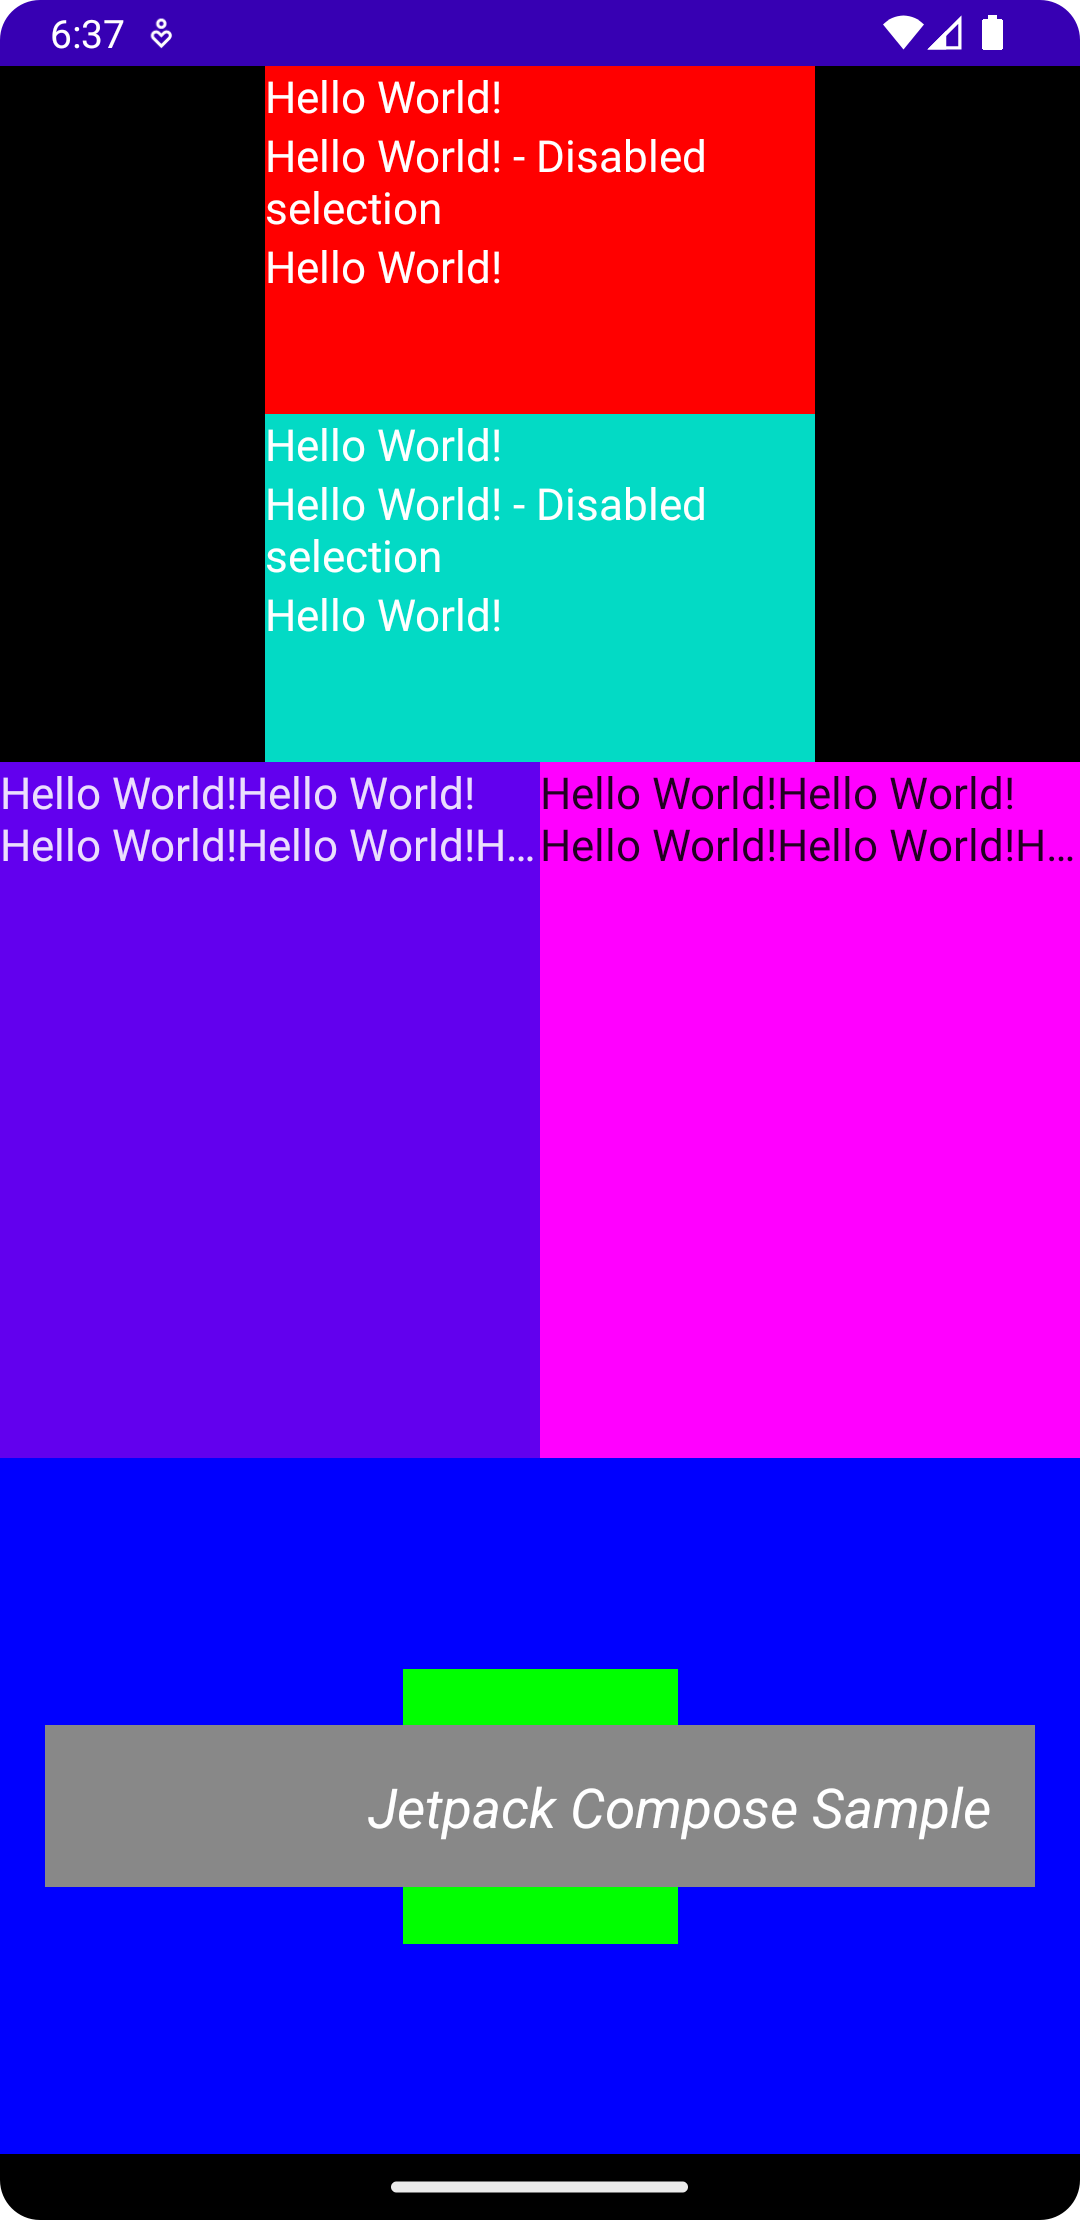
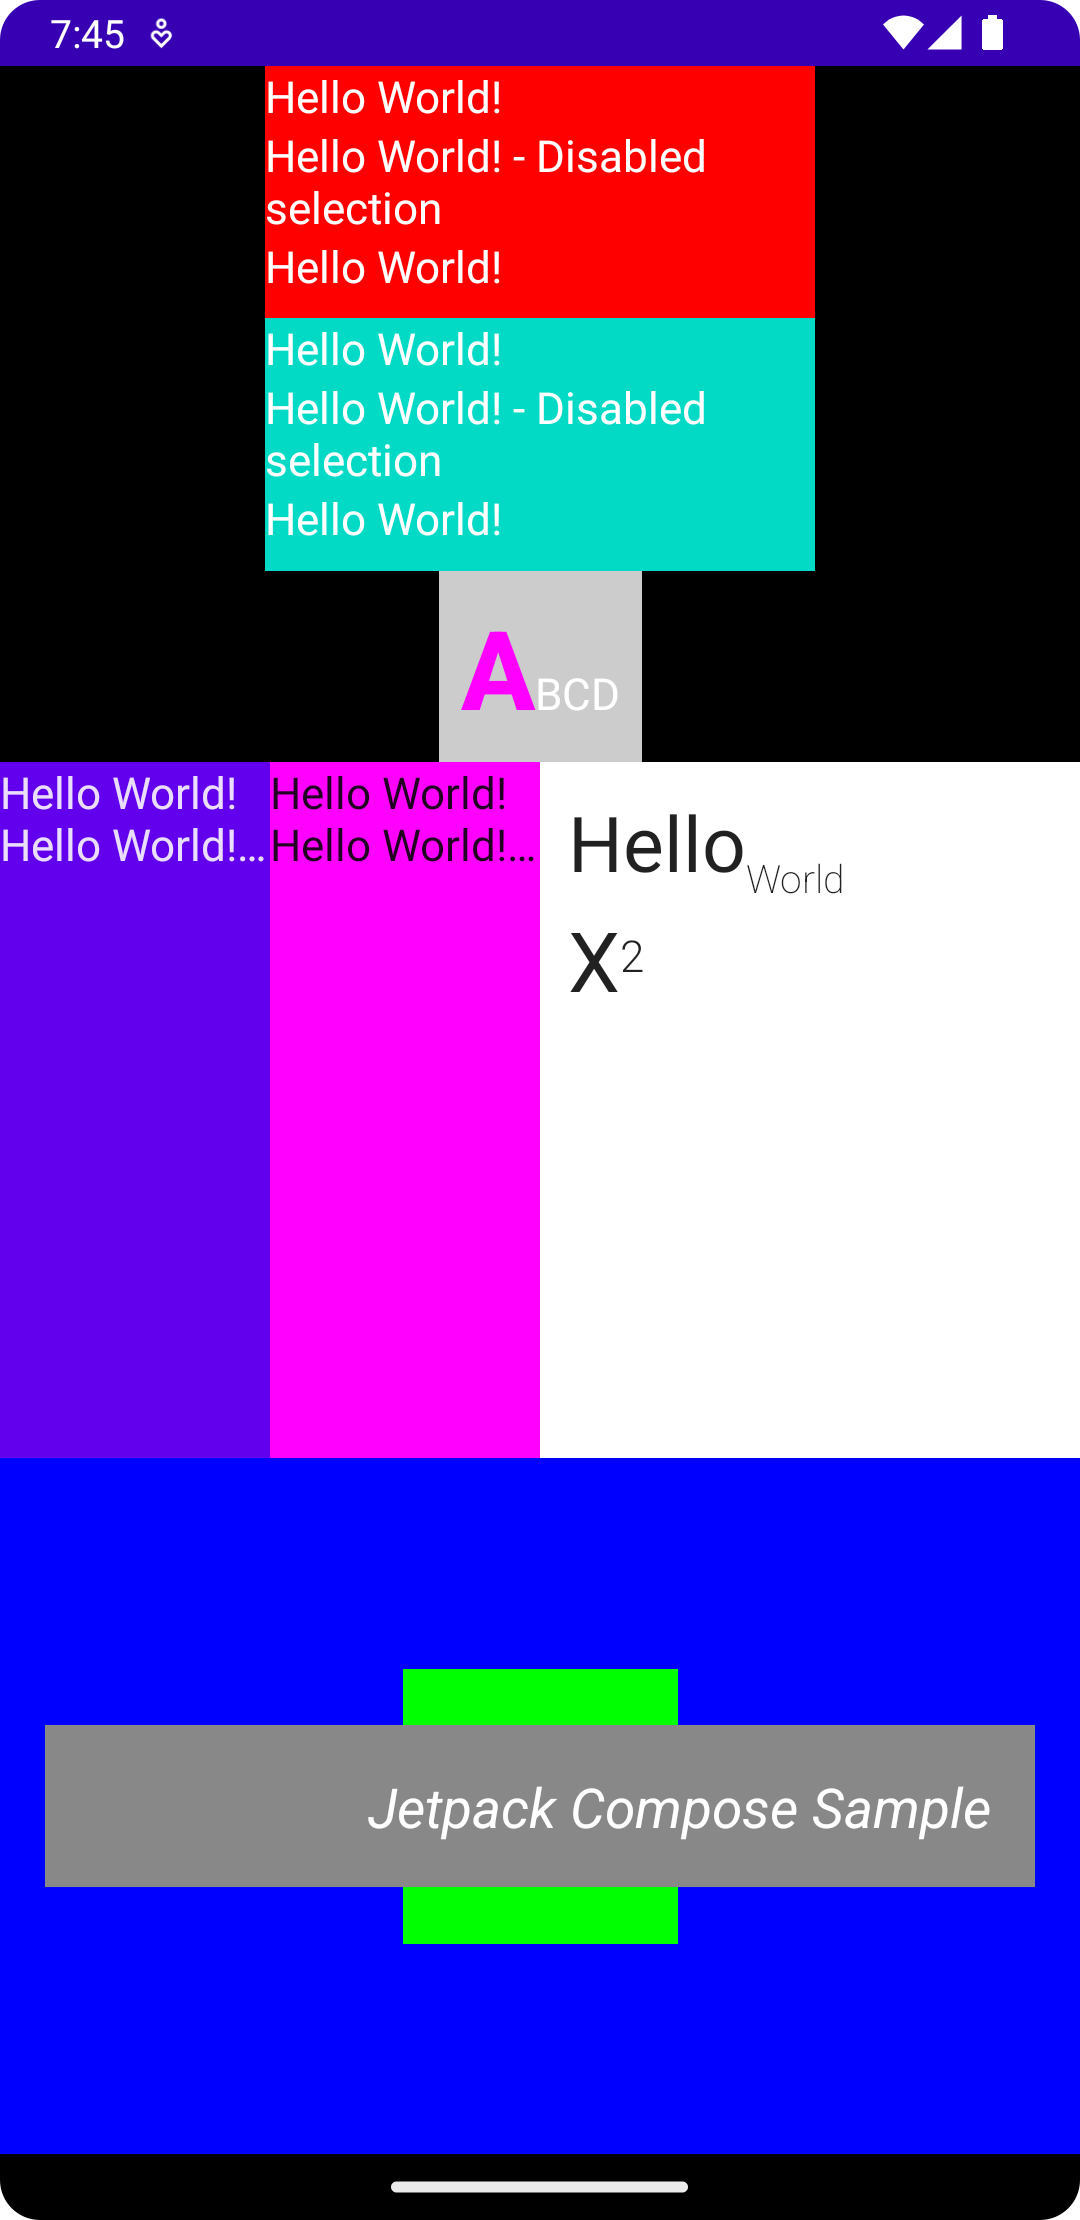
BaselineShift - Superscript and Subscript

diff --git a/app/src/main/java/com/example/jetpackcomposesample/MainActivity.kt b/app/src/main/java/com/example/jetpackcomposesample/MainActivity.kt
@@ -20,10 +20,12 @@ import androidx.compose.ui.text.SpanStyle
 import androidx.compose.ui.text.buildAnnotatedString
 import androidx.compose.ui.text.font.FontStyle
 import androidx.compose.ui.text.font.FontWeight
+import androidx.compose.ui.text.style.BaselineShift
 import androidx.compose.ui.text.style.TextAlign
 import androidx.compose.ui.text.style.TextOverflow
 import androidx.compose.ui.text.withStyle
 import androidx.compose.ui.tooling.preview.Preview
+import androidx.compose.ui.unit.TextUnit
 import androidx.compose.ui.unit.dp
 import androidx.compose.ui.unit.sp
 import com.example.jetpackcomposesample.ui.theme.JetpackComposeSampleTheme
@@ -46,6 +48,7 @@ class MainActivity : ComponentActivity() {
                     ) {
                         CustomItem1(weight = 1f, color = Color.Red)
                         CustomItem1(weight = 1f, color = MaterialTheme.colors.secondary)
+                        CustomText2()
                     }
 
                     Row(
@@ -57,6 +60,7 @@ class MainActivity : ComponentActivity() {
                     ) {
                         CustomItem2(weight = 1f)
                         CustomItem2(weight = 1f, color = Color.Magenta)
+                        CustomItem5(weight = 2f, color = Color.White)
                     }
 
                     Box(
@@ -72,27 +76,12 @@ class MainActivity : ComponentActivity() {
                                 .height(100.dp)
                                 .background(Color.Green)
                         )
-                        Text(
-                            modifier = Modifier
-                                .width(360.dp)
-                                .background(Color.Gray)
-                                .padding(16.dp),
-                            text = stringResource(id = R.string.app_name),
-                            fontStyle = FontStyle.Italic,
-                            fontSize = 20.sp,
-                            textAlign = TextAlign.End,
-                            color = Color.White
-                        )
+                        CustomText1()
                     }
                 }
             }
         }
     }
-}
-
-@Composable
-fun Greeting(name: String) {
-    Text(text = "Hello $name!")
 }
 
 @Composable
@@ -116,6 +105,34 @@ fun RowScope.CustomItem2(weight: Float, color: Color = MaterialTheme.colors.prim
         color = color
     ) {
         CustomText3()
+    }
+}
+
+@Composable
+fun RowScope.CustomItem5(weight: Float, color: Color) {
+    Surface(
+        modifier = Modifier
+            .fillMaxHeight()
+            .weight(weight),
+        color = color
+    ) {
+        Column(modifier = Modifier.padding(10.dp)) {
+            BaselineScriptText(
+                "Hello",
+                28.sp,
+                "World",
+                14.sp,
+                superFontWeight = FontWeight.ExtraLight,
+                baselineShift = BaselineShift.Subscript
+            )
+            BaselineScriptText(
+                normalText = "X",
+                30.sp,
+                superText = "2",
+                16.sp,
+                superFontWeight = FontWeight.Light
+            )
+        }
     }
 }
 
@@ -176,6 +193,31 @@ fun CustomText4() {
     }
 }
 
+@Composable
+fun BaselineScriptText(
+    normalText: String,
+    normalFontSize: TextUnit = MaterialTheme.typography.subtitle1.fontSize,
+    superText: String,
+    superFontSize: TextUnit = MaterialTheme.typography.overline.fontSize,
+    superFontWeight: FontWeight = FontWeight.Normal,
+    baselineShift: BaselineShift = BaselineShift.Superscript
+) {
+    Text(text = buildAnnotatedString {
+        withStyle(style = SpanStyle(fontSize = normalFontSize)) {
+            append(normalText)
+        }
+        withStyle(
+            style = SpanStyle(
+                fontSize = superFontSize,
+                fontWeight = superFontWeight,
+                baselineShift = baselineShift
+            )
+        ) {
+            append(superText)
+        }
+    })
+}
+
 @Preview(showBackground = true)
 @Composable
 fun DefaultPreview() {
@@ -205,6 +247,7 @@ fun DefaultPreview() {
             ) {
                 CustomItem2(weight = 1f)
                 CustomItem2(weight = 1f, color = Color.Magenta)
+                CustomItem5(weight = 2f, color = Color.White)
             }
 
             Box(

diff --git a/README.md b/README.md
@@ -7,5 +7,6 @@ Things covered-
 * Box
 * Text modification
 * Text selection
+* BaselineShift (Superscript/Subscript)
 
 <img src="screenshots/app.png" width="300">
